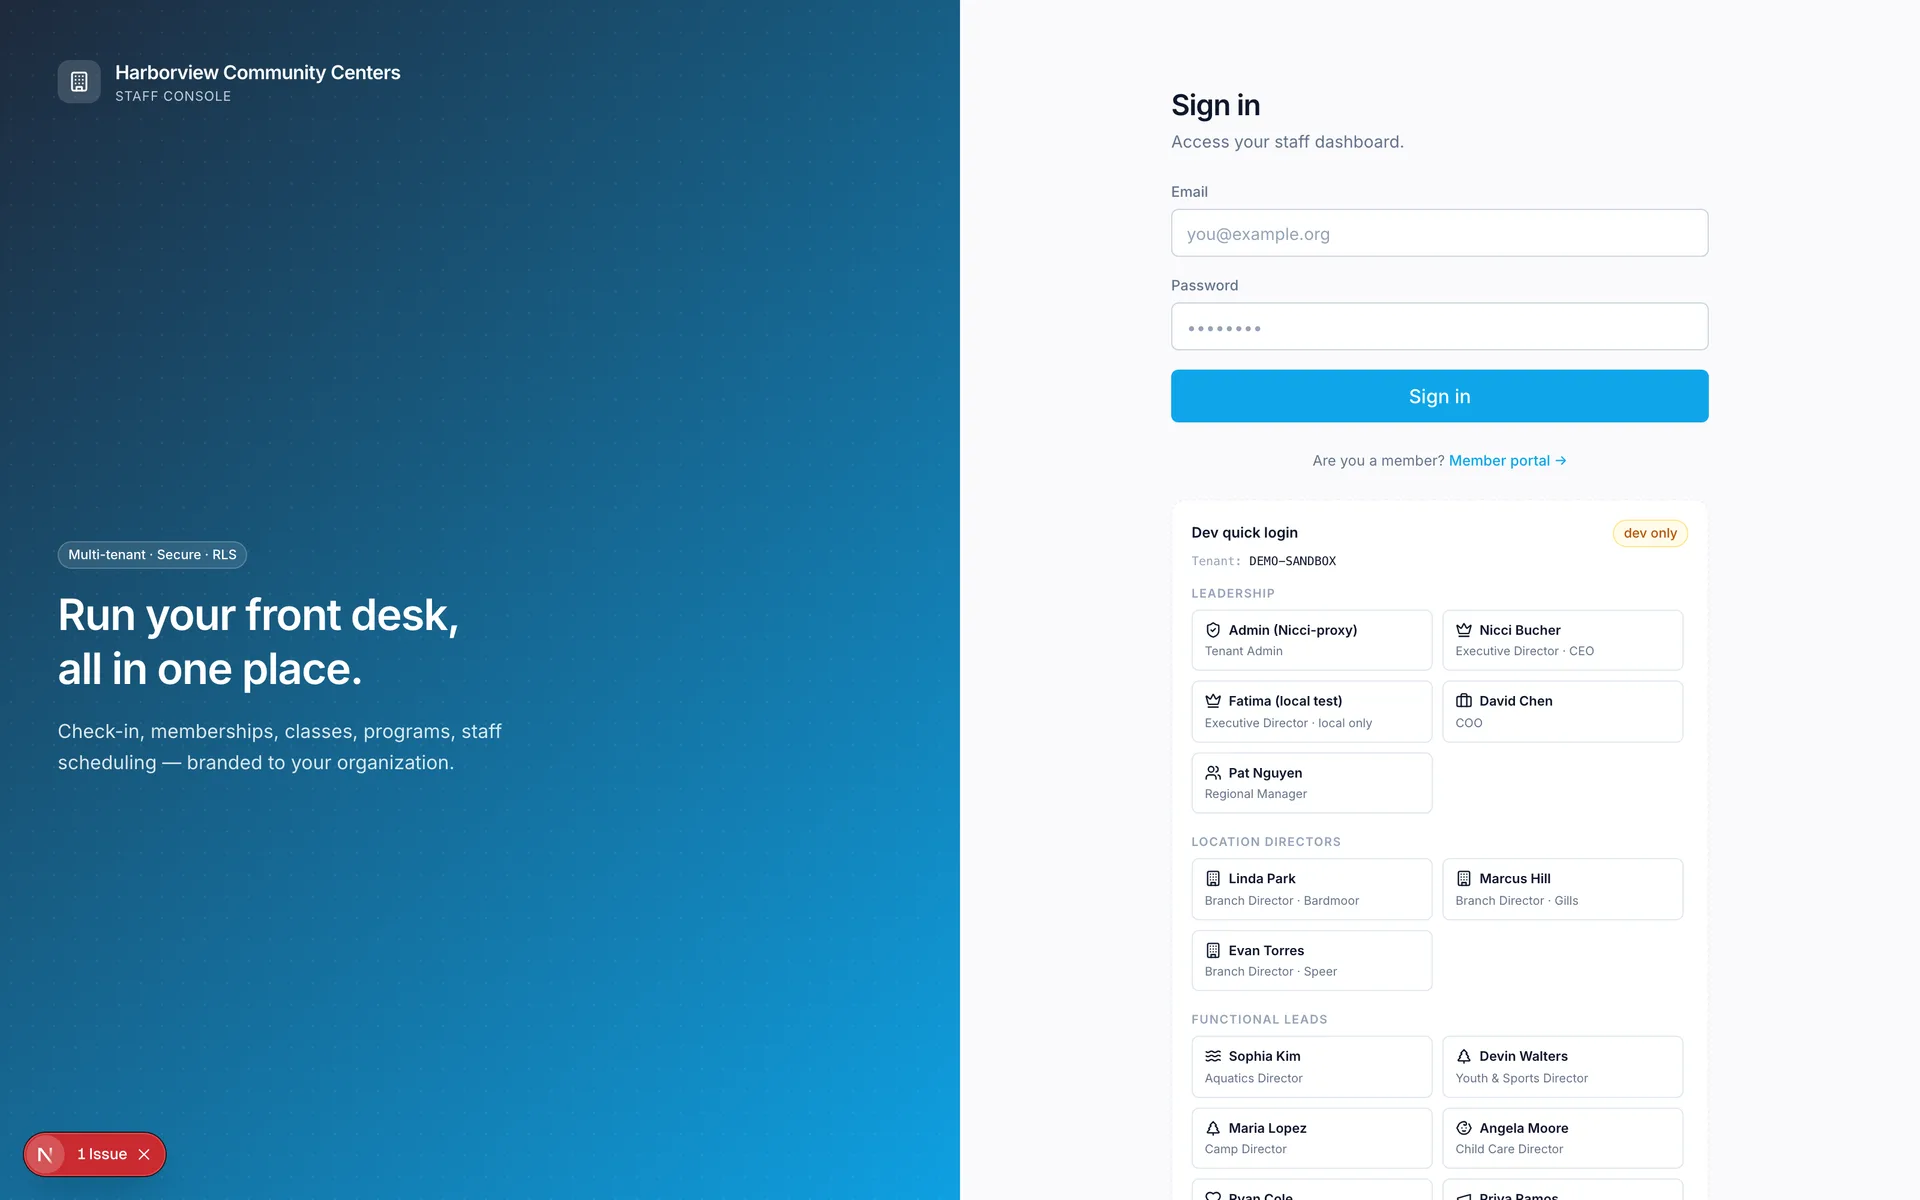
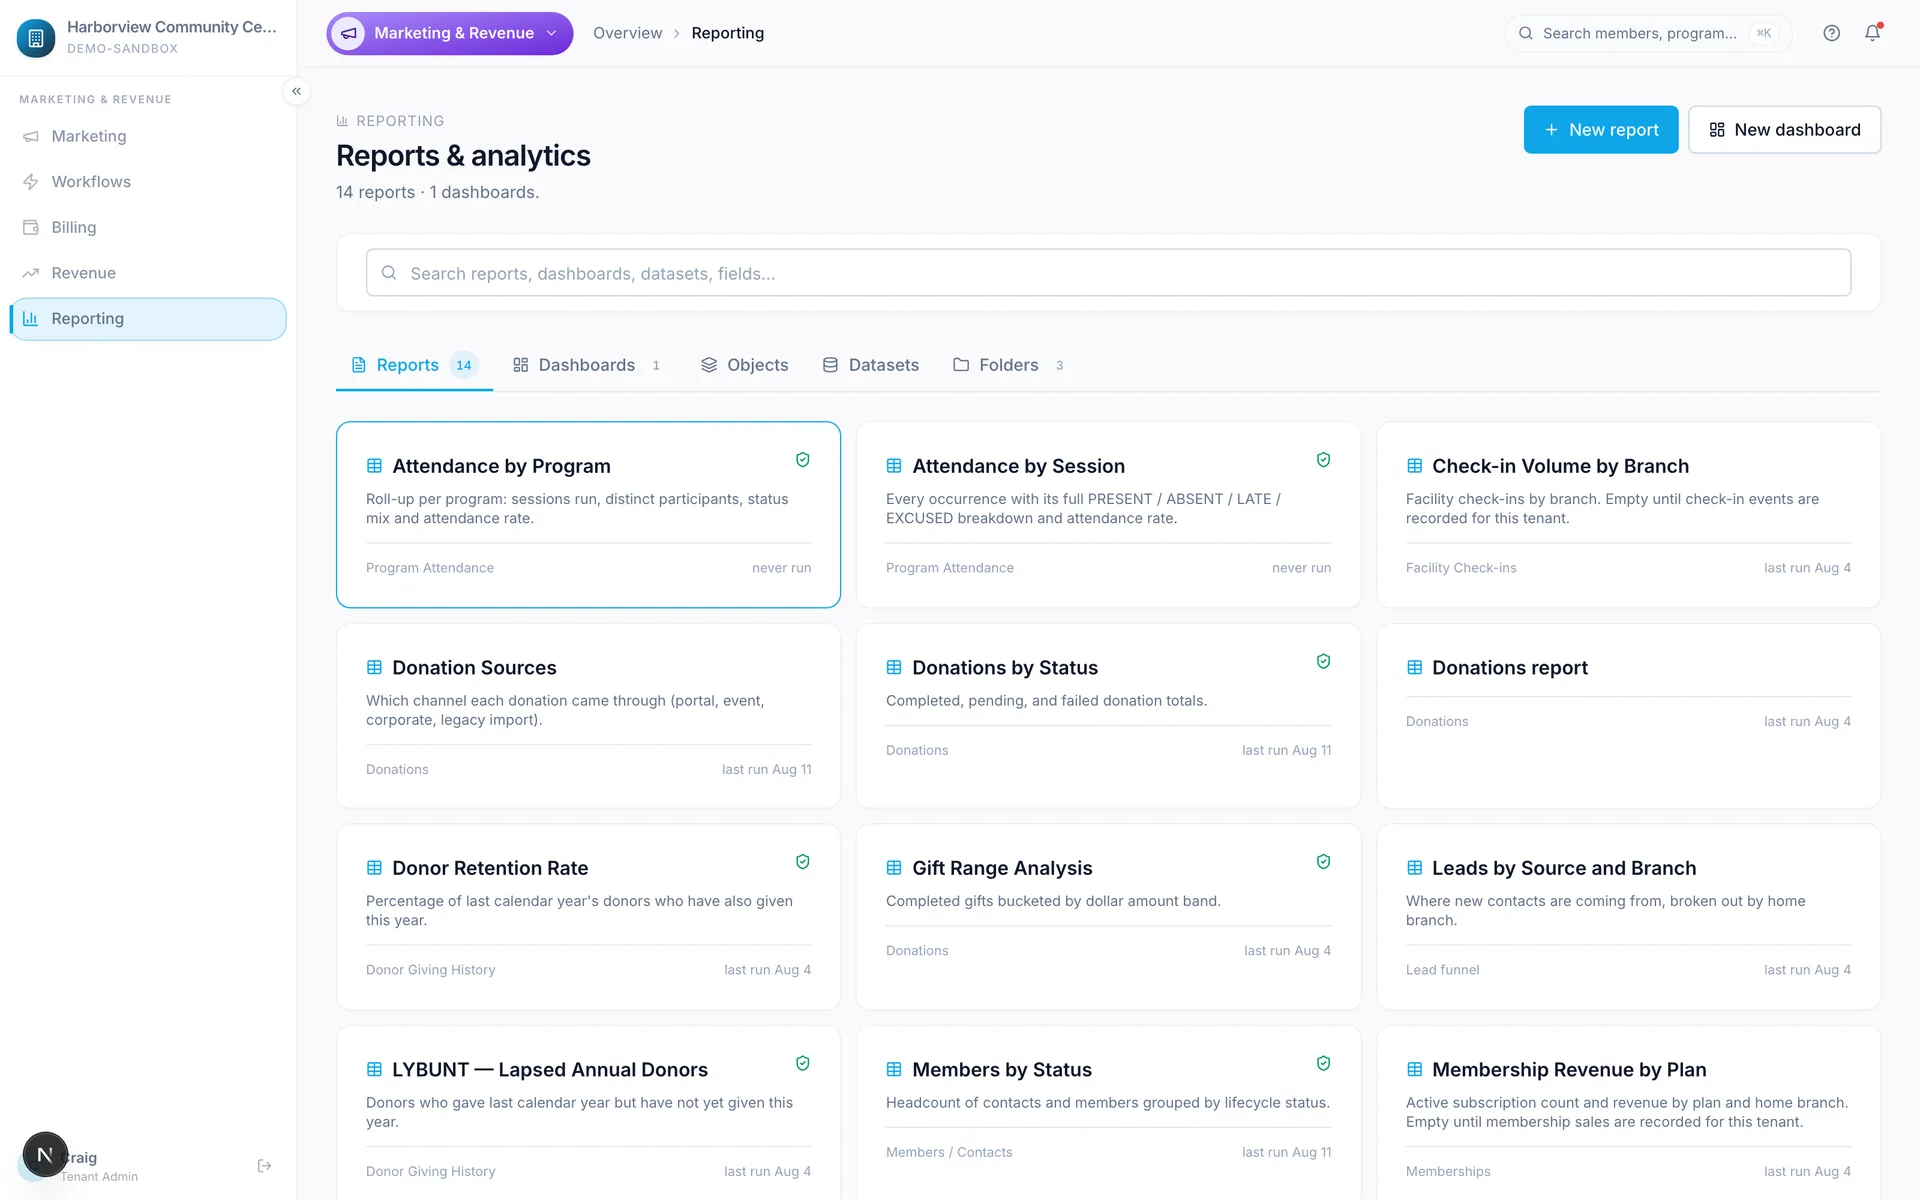
feat(membership): 'More of the platform' screenshot grids + refreshed sanitized captures
Adds a 2x2 product-screenshot grid to both membership pages (donations,
pledges, programs, classes on the Y page; classes, programs, giving,
major-gift pipeline on the general page). All captures re-taken with the
extended sanitizer (neutral tenant/branch names, test-donor identity
scrubbed). Marketing-hub shot deliberately excluded: it displays an SMS
campaign and SMS is not shipped.

diff --git a/src/app/ymca-management-software/page.tsx b/src/app/ymca-management-software/page.tsx
@@ -566,8 +566,85 @@ export default function YmcaManagementSoftwarePage() {
           </div>
         </section>
 
-        {/* ROLES + SECURITY — the "built for a real Y workforce" argument */}
+        {/* MORE VISUALS — 2x2 screenshot grid (owner request 2026-08-24: more visuals) */}
         <section className="section is-canvas">
+          <div className="container">
+            <div className="section-head">
+              <div>
+                <span className="eyebrow">More of the platform</span>
+                <h2 className="h1 mt-3">
+                  Four more screens <em>your team will live in.</em>
+                </h2>
+              </div>
+              <div>
+                <p className="lede">
+                  Same demo association, no mockups — the giving office, the
+                  program desk, and the group-ex calendar.
+                </p>
+              </div>
+            </div>
+            <div className="grid-2 mt-5">
+              <div className="card" style={{ padding: "16px" }}>
+                <Image
+                  src="/images/membership/donations.webp"
+                  alt="Donations workspace with collected totals, campaign filters, receipts, and refunds"
+                  width={1920}
+                  height={1200}
+                  style={{ width: "100%", height: "auto", borderRadius: "var(--r-md)", border: "1px solid var(--line-2)" }}
+                />
+                <p className="small mt-3" style={{ color: "var(--slate-2)" }}>
+                  <strong>Donations</strong> — record, receipt, and refund by
+                  branch and campaign, with failed and refunded gifts tracked.
+                </p>
+              </div>
+              <div className="card" style={{ padding: "16px" }}>
+                <Image
+                  src="/images/membership/pledges.webp"
+                  alt="Pledges list with totals, paid amounts, remaining balances, and overdue installments"
+                  width={1920}
+                  height={1200}
+                  style={{ width: "100%", height: "auto", borderRadius: "var(--r-md)", border: "1px solid var(--line-2)" }}
+                />
+                <p className="small mt-3" style={{ color: "var(--slate-2)" }}>
+                  <strong>Pledges</strong> — multi-year commitments with
+                  installment schedules and overdue flags your gift officers
+                  chase from one list.
+                </p>
+              </div>
+              <div className="card" style={{ padding: "16px" }}>
+                <Image
+                  src="/images/membership/programs.webp"
+                  alt="Programs catalog with camps and leagues, member and non-member pricing, and status"
+                  width={1920}
+                  height={1200}
+                  style={{ width: "100%", height: "auto", borderRadius: "var(--r-md)", border: "1px solid var(--line-2)" }}
+                />
+                <p className="small mt-3" style={{ color: "var(--slate-2)" }}>
+                  <strong>Programs</strong> — camps, leagues, and clinics with
+                  member/non-member pricing, capacity, and waitlists that
+                  promote automatically.
+                </p>
+              </div>
+              <div className="card" style={{ padding: "16px" }}>
+                <Image
+                  src="/images/membership/classes.webp"
+                  alt="Weekly class calendar across branches with color-coded categories"
+                  width={1920}
+                  height={1200}
+                  style={{ width: "100%", height: "auto", borderRadius: "var(--r-md)", border: "1px solid var(--line-2)" }}
+                />
+                <p className="small mt-3" style={{ color: "var(--slate-2)" }}>
+                  <strong>Classes</strong> — the whole week&apos;s group-ex
+                  schedule across every branch, with rosters and attendance a
+                  click away.
+                </p>
+              </div>
+            </div>
+          </div>
+        </section>
+
+        {/* ROLES + SECURITY — the "built for a real Y workforce" argument */}
+        <section className="section">
           <div className="container">
             <div className="split">
               <div>

diff --git a/src/app/membership-management/page.tsx b/src/app/membership-management/page.tsx
@@ -509,6 +509,83 @@ export default function MembershipManagementPage() {
           </div>
         </section>
 
+        {/* MORE VISUALS — 2x2 screenshot grid (owner request 2026-08-24: more visuals) */}
+        <section className="section">
+          <div className="container">
+            <div className="section-head">
+              <div>
+                <span className="eyebrow">More of the platform</span>
+                <h2 className="h1 mt-3">
+                  Four more screens <em>your team will live in.</em>
+                </h2>
+              </div>
+              <div>
+                <p className="lede">
+                  Same demo organization, no mockups — programs, the class
+                  calendar, giving, and the major-gift pipeline.
+                </p>
+              </div>
+            </div>
+            <div className="grid-2 mt-5">
+              <div className="card" style={{ padding: "16px" }}>
+                <Image
+                  src="/images/membership/classes.webp"
+                  alt="Weekly class calendar across locations with color-coded categories"
+                  width={1920}
+                  height={1200}
+                  style={{ width: "100%", height: "auto", borderRadius: "var(--r-md)", border: "1px solid var(--line-2)" }}
+                />
+                <p className="small mt-3" style={{ color: "var(--slate-2)" }}>
+                  <strong>Classes</strong> — the whole week&apos;s schedule
+                  across every location, with rosters and attendance a click
+                  away.
+                </p>
+              </div>
+              <div className="card" style={{ padding: "16px" }}>
+                <Image
+                  src="/images/membership/programs.webp"
+                  alt="Programs catalog with leagues and clinics, member and non-member pricing, and status"
+                  width={1920}
+                  height={1200}
+                  style={{ width: "100%", height: "auto", borderRadius: "var(--r-md)", border: "1px solid var(--line-2)" }}
+                />
+                <p className="small mt-3" style={{ color: "var(--slate-2)" }}>
+                  <strong>Programs</strong> — camps, leagues, and clinics with
+                  member/non-member pricing, capacity, and self-promoting
+                  waitlists.
+                </p>
+              </div>
+              <div className="card" style={{ padding: "16px" }}>
+                <Image
+                  src="/images/membership/donations.webp"
+                  alt="Donations workspace with collected totals, campaign filters, receipts, and refunds"
+                  width={1920}
+                  height={1200}
+                  style={{ width: "100%", height: "auto", borderRadius: "var(--r-md)", border: "1px solid var(--line-2)" }}
+                />
+                <p className="small mt-3" style={{ color: "var(--slate-2)" }}>
+                  <strong>Giving</strong> — donations recorded, receipted, and
+                  refunded by location and campaign, in the same system as
+                  memberships.
+                </p>
+              </div>
+              <div className="card" style={{ padding: "16px" }}>
+                <Image
+                  src="/images/membership/gift-pipeline.webp"
+                  alt="Major-gift opportunities pipeline with weighted portfolio value and stages"
+                  width={1920}
+                  height={1200}
+                  style={{ width: "100%", height: "auto", borderRadius: "var(--r-md)", border: "1px solid var(--line-2)" }}
+                />
+                <p className="small mt-3" style={{ color: "var(--slate-2)" }}>
+                  <strong>Major gifts</strong> — a weighted cultivation
+                  pipeline for the big asks, without buying a second CRM.
+                </p>
+              </div>
+            </div>
+          </div>
+        </section>
+
         {/* ARCHITECTURE / TRUST */}
         <section className="section">
           <div className="container">
